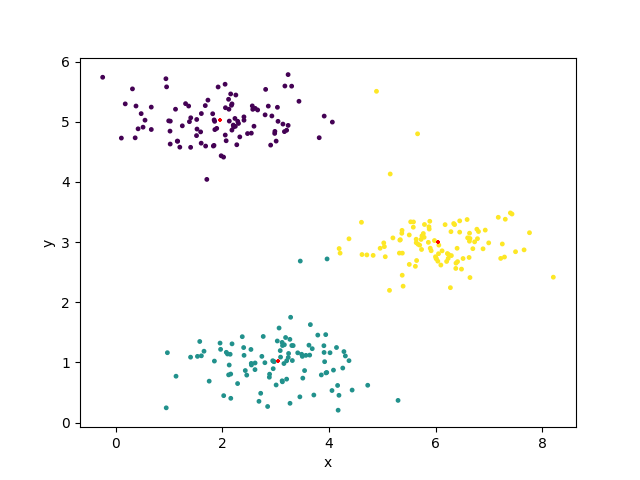
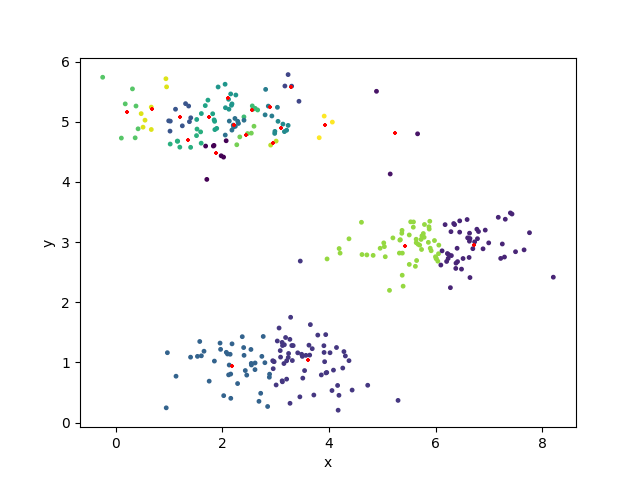
Fixing __init__.py

diff --git a/FunctionalityTest/ImplementationScript.py b/FunctionalityTest/ImplementationScript.py
@@ -2,13 +2,8 @@ import scipy.io as sp
 import numpy as np
 import matplotlib.pyplot as plt
 import sys
+import FunctionalityTest.kMeans as km
 
-
[1 lines of base64/hex data omitted]
-
-if not PYSOLR_PATH in sys.path:
-    sys.path.append(PYSOLR_PATH)
-print(sys.path)
 
 data = sp.loadmat('kmeans_test_data.mat')['X']
 
@@ -57,10 +52,11 @@ def computeCentroids(X, idx,K):
         centroids[i,:] = res / count
     return centroids
 
-#kmInstance = KMeans()
 
-(idx,centroids) = runKMeans(data, initial_centroids, 12)
+#(idx,centroids) = runKMeans(data, initial_centroids, 12)
 
+kmInstance = km.KMeans(data)
+(idx,centroids) = kmInstance.runKMeans(20)
 
 
 # View k-means with matplotlib

diff --git a/FunctionalityTest/kMeans/__init__.py b/FunctionalityTest/kMeans/__init__.py
@@ -1,0 +1,1 @@
+from FunctionalityTest.kMeans.KMeans import KMeans
